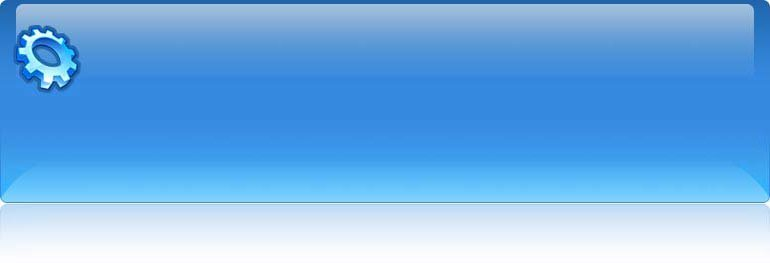
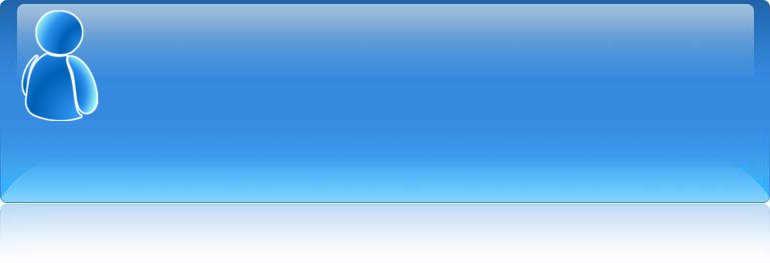
clients,testimonial images changed

Changed region(s): [[0.0, 0.0304, 0.1558, 0.4867]]

diff --git a/testimonials.html b/testimonials.html
@@ -20,7 +20,7 @@ href="http://legreensolutions.com"><img
 
 <div id="headerPanelTestimonials">
 	<h2>Testimonials</h2>
-	<p> </p>
+	<p> A written statement.</p>
 </div>
 
 </div>
